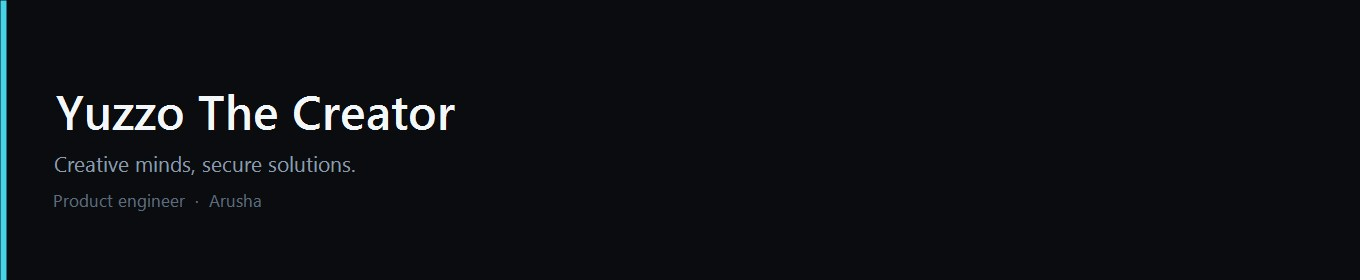
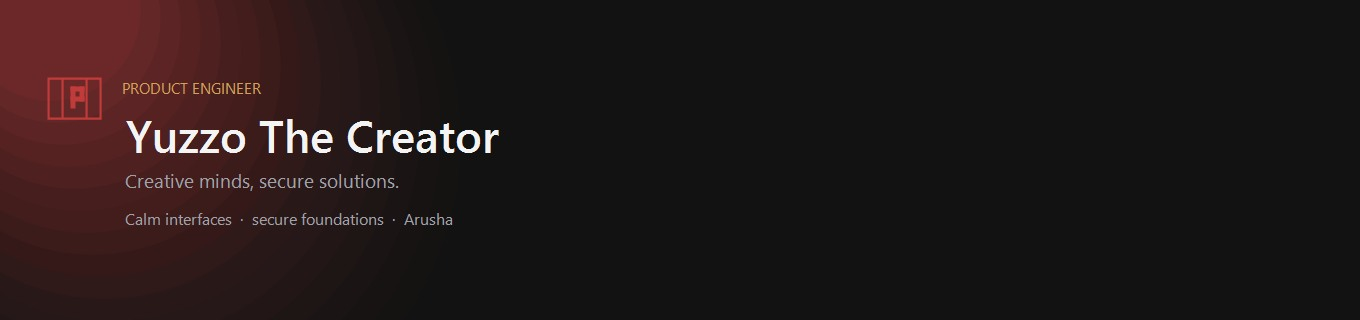
Restyle profile header with Pirate Studio charcoal and crimson system.
EOF

Changed region(s): [[0.0, 0.0, 0.3706, 1.0]]

diff --git a/README.md b/README.md
@@ -2,9 +2,9 @@
 
 <br/>
 
-I'm a product engineer in Arusha. I ship software for teams that need clarity — security, trust, payments, and operations.
+I'm a product engineer in Arusha. I build calm, content-first software — security, trust, payments, and operations — with interfaces people can trust and backends that stay steady under real use.
 
-I care about interfaces people can trust, and backends that stay calm under real use.
+Creative minds. Secure solutions.
 
 ### Selected work
 
